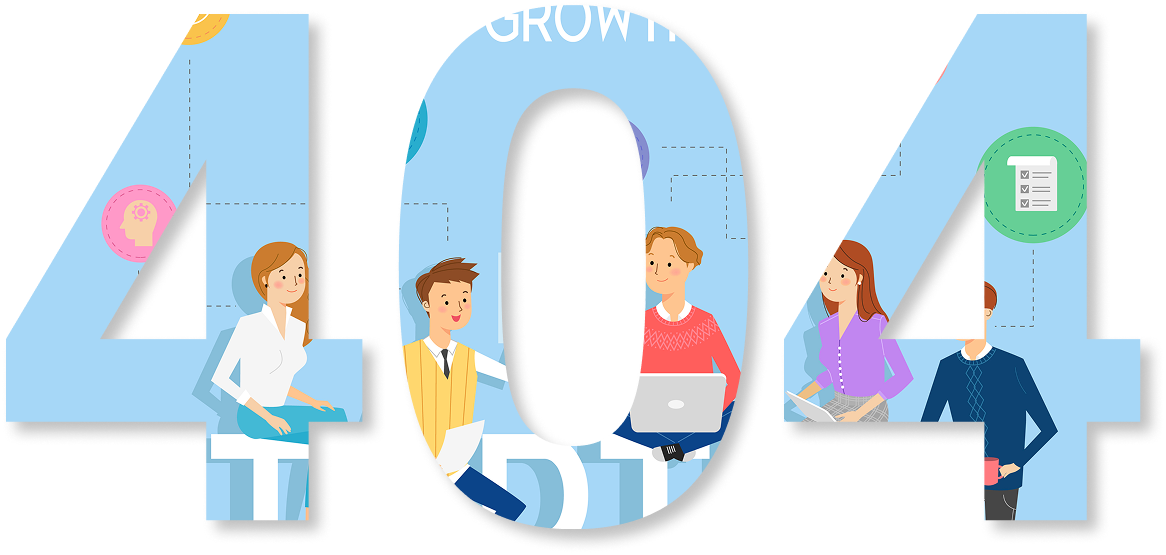
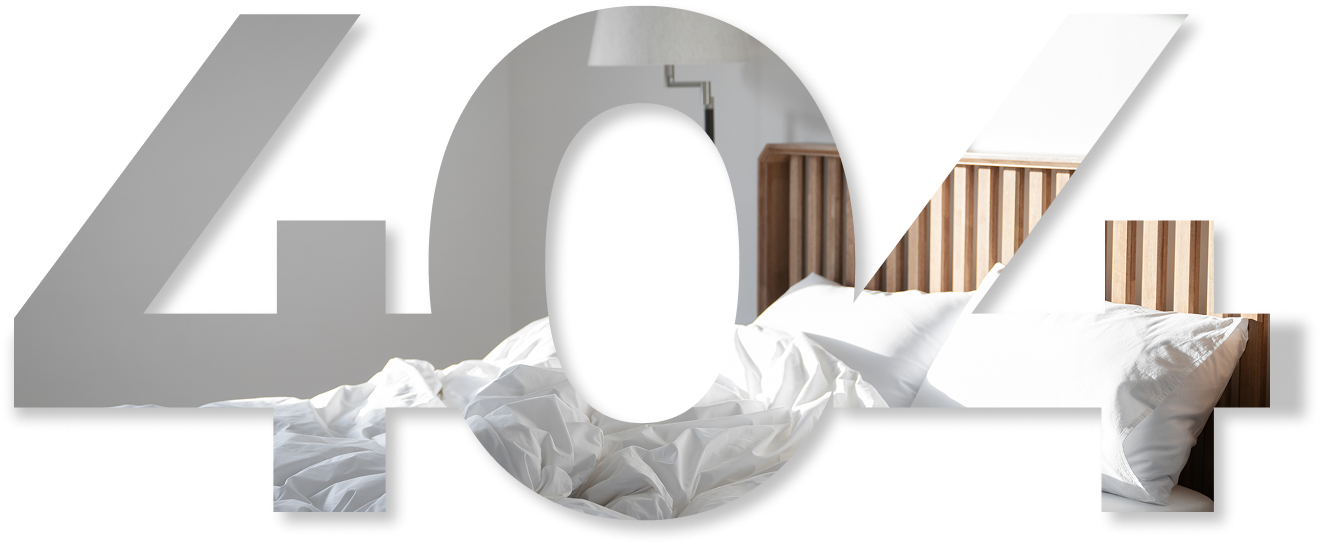
Enhance Step3UserInfo Component with Input Refs for Improved Focus Management
- Added useRef hooks for username, password, email, car number, and address detail input fields to manage focus more effectively.
- Replaced direct DOM manipulation with ref-based focus handling to improve code readability and maintainability.
- Updated the 404 background image to a new version for better visual consistency.

diff --git a/src/app/(public)/signup/components/Step3UserInfo.tsx b/src/app/(public)/signup/components/Step3UserInfo.tsx
@@ -7,6 +7,7 @@ import React, {
   forwardRef,
   useCallback,
   useMemo,
+  useRef,
 } from "react";
 import {
   VStack,
@@ -108,6 +109,12 @@ export const Step3UserInfo = forwardRef<Step3UserInfoRef, Step3UserInfoProps>(
     },
     ref
   ) => {
+    const usernameInputRef = useRef<HTMLInputElement>(null);
+    const passwordInputRef = useRef<HTMLInputElement>(null);
+    const emailInputRef = useRef<HTMLInputElement>(null);
+    const carNumberInputRef = useRef<HTMLInputElement>(null);
+    const addressDetailInputRef = useRef<HTMLInputElement>(null);
+
     const [postcode, setPostcode] = useState("");
     const [address, setAddress] = useState("");
     const [addressDetail, setAddressDetail] = useState("");
@@ -392,7 +399,7 @@ export const Step3UserInfo = forwardRef<Step3UserInfoRef, Step3UserInfoProps>(
           });
 
           // 사용자 ID 입력란에 포커스
-          document.getElementsByName("username")[0]?.focus();
+          usernameInputRef.current?.focus();
         } else {
           toaster.create({
             title: "회원가입 실패",
@@ -431,14 +438,15 @@ export const Step3UserInfo = forwardRef<Step3UserInfoRef, Step3UserInfoProps>(
         });
         setUsernameError(currentUsernameError);
         setUsernameSuccessMessage("");
-        hasError = true;
+        usernameInputRef.current?.focus();
+        return;
       } else if (isCheckingUsername) {
         toaster.create({
           title: "확인 중",
           description: "사용자 ID를 확인 중입니다. 잠시 후 다시 시도해주세요.",
           type: "warning",
         });
-        hasError = true;
+        return;
       } else if (usernameAvailable === false) {
         const message =
           usernameCheckMessage ||
@@ -450,7 +458,8 @@ export const Step3UserInfo = forwardRef<Step3UserInfoRef, Step3UserInfoProps>(
           type: "error",
         });
         if (!usernameError) setUsernameError(message);
-        hasError = true;
+        usernameInputRef.current?.focus();
+        return;
       } else if (usernameInput && usernameAvailable === null) {
         const message = "사용자 ID 중복 확인을 진행해주세요.";
         toaster.create({
@@ -459,7 +468,8 @@ export const Step3UserInfo = forwardRef<Step3UserInfoRef, Step3UserInfoProps>(
           type: "warning",
         });
         setUsernameError(message);
-        hasError = true;
+        usernameInputRef.current?.focus();
+        return;
       }
 
       const currentEmailError = validateEmail(email);
@@ -470,7 +480,7 @@ export const Step3UserInfo = forwardRef<Step3UserInfoRef, Step3UserInfoProps>(
           description: currentEmailError,
           type: "error",
         });
-        document.getElementsByName("email")[0]?.focus();
+        emailInputRef.current?.focus();
         hasError = true;
       } else if (!isEmailVerified) {
         toaster.create({
@@ -478,7 +488,7 @@ export const Step3UserInfo = forwardRef<Step3UserInfoRef, Step3UserInfoProps>(
           description: "이메일 인증을 완료해주세요.",
           type: "warning",
         });
-        document.getElementsByName("email")[0]?.focus();
+        emailInputRef.current?.focus();
         hasError = true;
       }
 
@@ -506,7 +516,7 @@ export const Step3UserInfo = forwardRef<Step3UserInfoRef, Step3UserInfoProps>(
           description: currentEmailError,
           type: "error",
         });
-        document.getElementsByName("email")[0]?.focus();
+        emailInputRef.current?.focus();
         return;
       }
 
@@ -516,7 +526,7 @@ export const Step3UserInfo = forwardRef<Step3UserInfoRef, Step3UserInfoProps>(
           description: "이메일 인증을 완료해주세요.",
           type: "error",
         });
-        document.getElementsByName("email")[0]?.focus();
+        emailInputRef.current?.focus();
         return;
       }
 
@@ -527,7 +537,7 @@ export const Step3UserInfo = forwardRef<Step3UserInfoRef, Step3UserInfoProps>(
             "비밀번호를 확인해주세요. 모든 복잡도 조건을 만족하고, 비밀번호 확인이 일치해야 합니다.",
           type: "error",
         });
-        document.getElementsByName("password")[0]?.focus();
+        passwordInputRef.current?.focus();
         return;
       }
 
@@ -537,7 +547,7 @@ export const Step3UserInfo = forwardRef<Step3UserInfoRef, Step3UserInfoProps>(
           description: currentCarNumberError,
           type: "error",
         });
-        document.getElementsByName("carNumber")[0]?.focus();
+        carNumberInputRef.current?.focus();
         return;
       }
 
@@ -636,7 +646,7 @@ export const Step3UserInfo = forwardRef<Step3UserInfoRef, Step3UserInfoProps>(
       }
       setPostcode(data.zonecode);
       setAddress(fullAddress);
-      document.getElementById("addressDetailInput")?.focus();
+      addressDetailInputRef.current?.focus();
     };
 
     const handleSearchAddress = () => {
@@ -768,6 +778,7 @@ export const Step3UserInfo = forwardRef<Step3UserInfoRef, Step3UserInfoProps>(
                 <Field.Root id="username">
                   <Field.Label fontWeight="semibold">사용자 ID</Field.Label>
                   <Input
+                    ref={usernameInputRef}
                     type="text"
                     placeholder="4~16자 영문, 숫자"
                     name="username"
@@ -824,6 +835,7 @@ export const Step3UserInfo = forwardRef<Step3UserInfoRef, Step3UserInfoProps>(
                       }}
                     >
                       <PasswordInput
+                        ref={passwordInputRef}
                         name="password"
                         value={passwordInput}
                         onChange={handlePasswordChange}
@@ -919,6 +931,7 @@ export const Step3UserInfo = forwardRef<Step3UserInfoRef, Step3UserInfoProps>(
                 <Field.Root id="addressDetailField">
                   <Field.Label fontWeight="semibold">상세주소</Field.Label>
                   <Input
+                    ref={addressDetailInputRef}
                     id="addressDetailInput"
                     placeholder="상세 주소를 입력해주세요."
                     name="address_detail"
@@ -936,6 +949,7 @@ export const Step3UserInfo = forwardRef<Step3UserInfoRef, Step3UserInfoProps>(
                   <Field.Label fontWeight="semibold">이메일</Field.Label>
                   <HStack>
                     <Input
+                      ref={emailInputRef}
                       type="email"
                       placeholder="이메일을 입력해주세요."
                       name="email"
@@ -1024,6 +1038,7 @@ export const Step3UserInfo = forwardRef<Step3UserInfoRef, Step3UserInfoProps>(
                 <Field.Root id="carNumber" invalid={!!carNumberError}>
                   <Field.Label fontWeight="semibold">차량번호</Field.Label>
                   <Input
+                    ref={carNumberInputRef}
                     placeholder="차량번호를 입력해주세요 (예: 12가 1234)"
                     name="carNumber"
                     value={carNumber}
